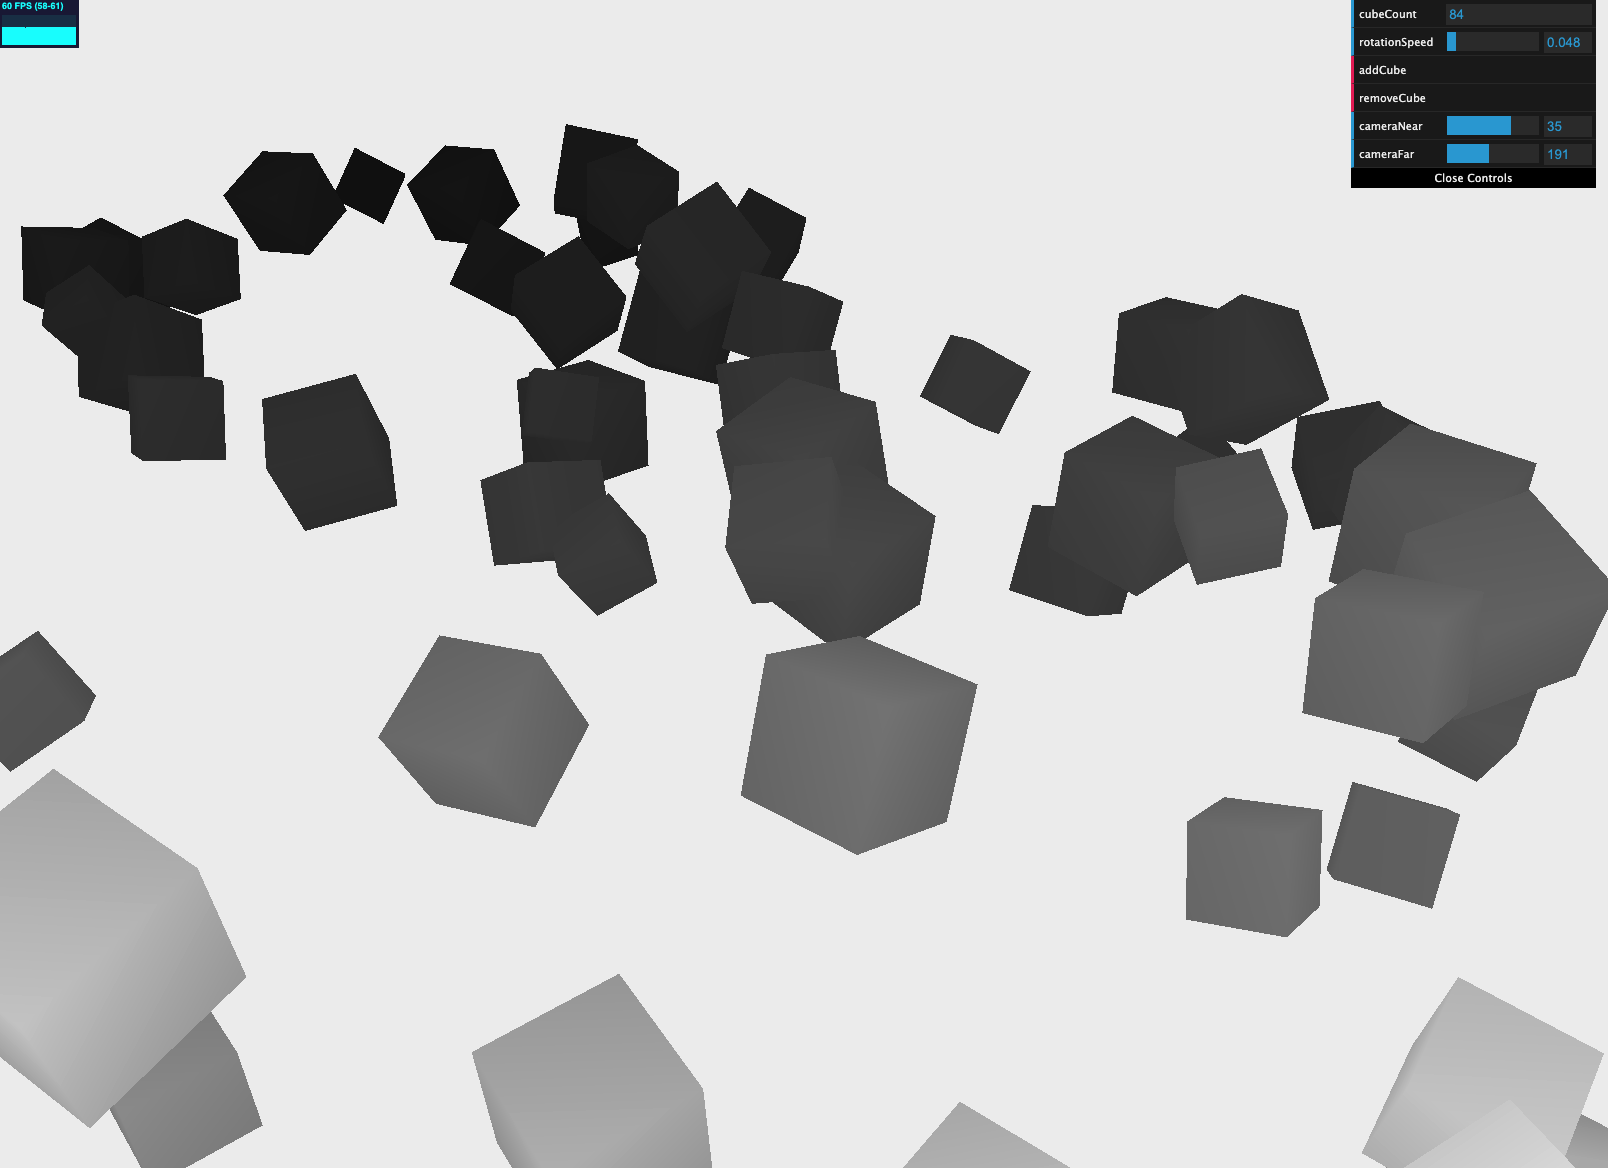
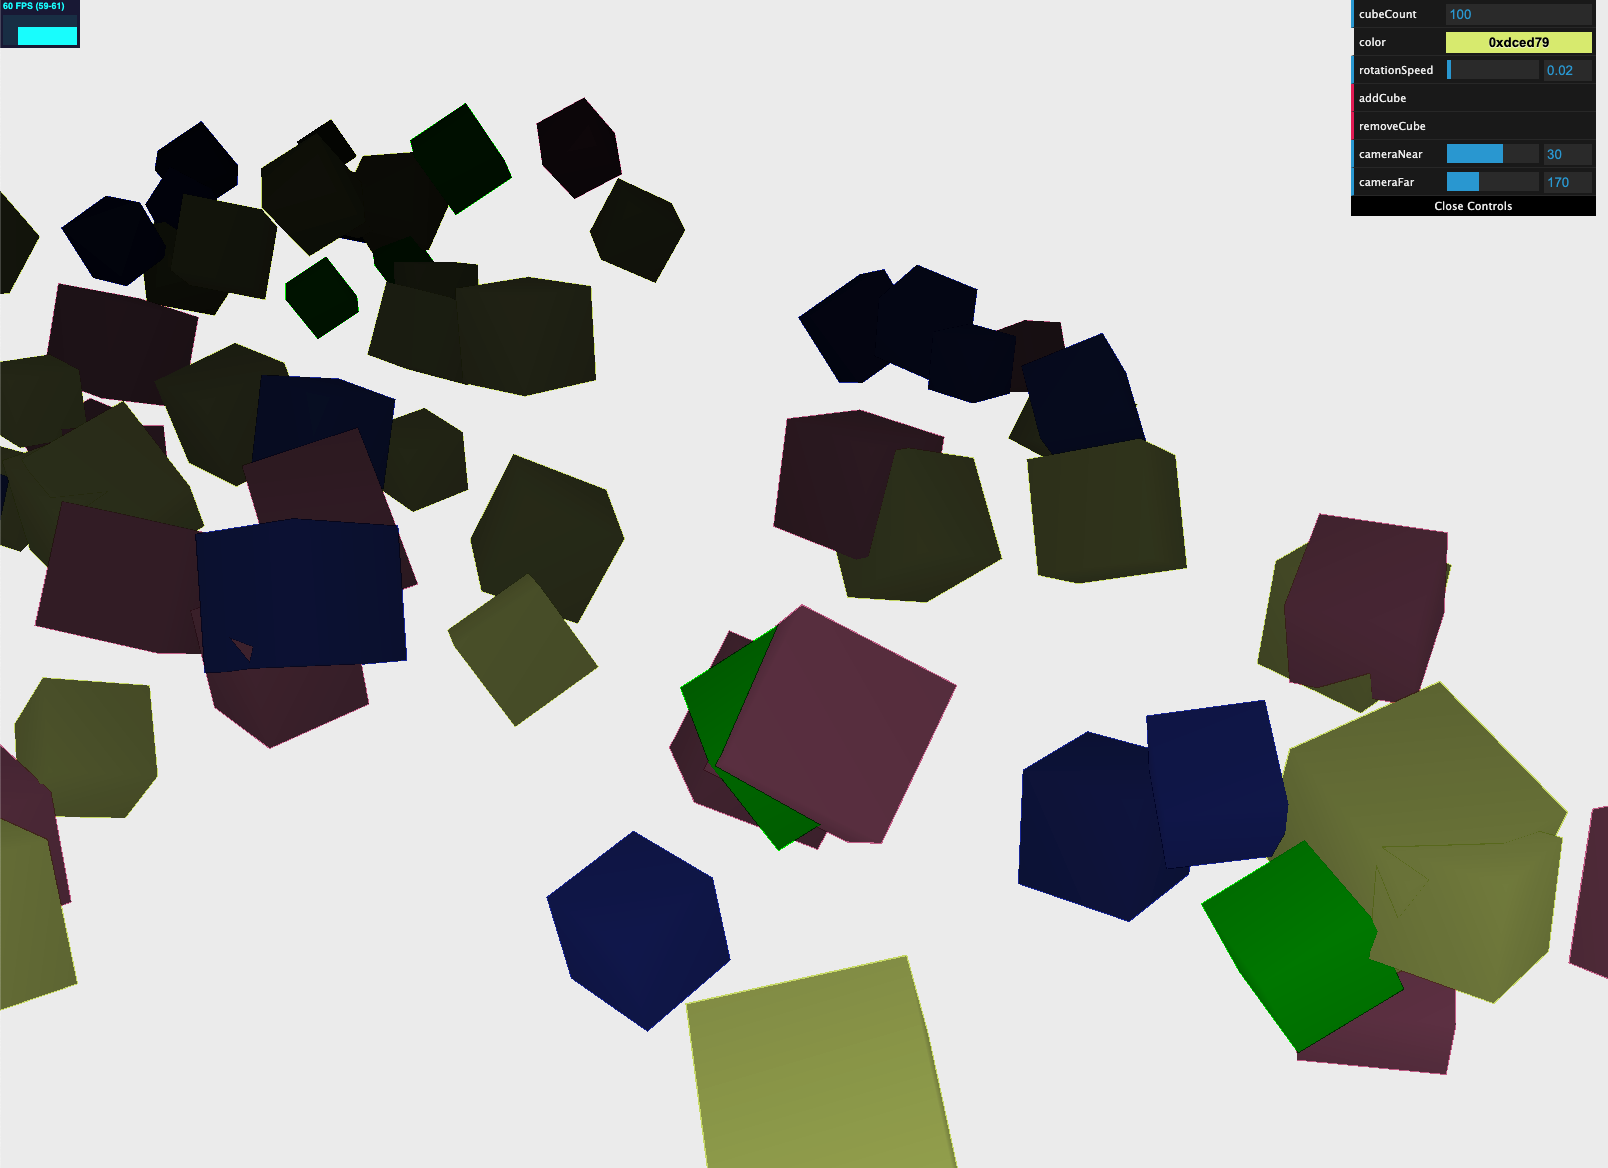
4-2-4 complete

diff --git a/Learning Three.js, 2nd Edition/chapter-04/4-2-3.combined-material/src/index.js b/Learning Three.js, 2nd Edition/chapter-04/4-2-3.combined-material/src/index.js
@@ -1,13 +1,13 @@
 import * as THREE from "three";
 import Stats from "stats.js";
 import * as dat from "dat.gui";
+import { SceneUtils } from "three/examples/jsm/utils/SceneUtils";
 
 // 統計情報の追加
 const stats = initStats();
 
 // [Scene]シーンの作成
 const scene = new THREE.Scene();
-scene.overrideMaterial = new THREE.MeshDepthMaterial();
 
 // [Camera]カメラの作成
 let camera = new THREE.PerspectiveCamera(45, window.innerWidth / window.innerHeight, 30, 170);
@@ -22,6 +22,7 @@ const renderer = new THREE.WebGLRenderer();
 renderer.setClearColor(new THREE.Color(0xeeeeee));
 renderer.setSize(window.innerWidth, window.innerHeight);
 renderer.shadowMap.enabled = true;
+renderer.sortObjects = true;
 document.getElementById("WebGL-output").appendChild(renderer.domElement);
 
 // [Gui]GUI
@@ -31,11 +32,12 @@ const controls = new (function () {
   this.cameraFar = camera.far;
   this.rotationSpeed = 0.02;
   this.numberOfObjects = scene.children.length;
+  this.color = 0x00ff00;
 
   this.removeCube = function () {
     const allChildren = scene.children;
     const lastObject = allChildren[allChildren.length - 1];
-    if (lastObject instanceof THREE.Mesh) {
+    if (lastObject instanceof THREE.Group) {
       scene.remove(lastObject);
       this.numberOfObjects = scene.children.length;
       this.cubeCount = scene.children.length - 1;
@@ -44,9 +46,19 @@ const controls = new (function () {
   this.addCube = function () {
     const cubeSize = Math.ceil(3 + Math.random() * 3);
     const cubeGeometry = new THREE.BoxGeometry(cubeSize, cubeSize, cubeSize);
-    const cubeMaterial = new THREE.MeshLambertMaterial({ color: Math.random() * 0xffffff });
-    // const cubeMaterial = new THREE.MeshDepthMaterial();
-    const cube = new THREE.Mesh(cubeGeometry, cubeMaterial);
+    const cubeMaterial = new THREE.MeshDepthMaterial();
+    // const colorMaterial = new THREE.MeshLambertMaterial({
+    //   color: controls.color,
+    //   transparent: true,
+    //   blending: THREE.MultiplyBlending,
+    // });
+    const colorMaterial = new THREE.MeshBasicMaterial({
+      color: new THREE.Color(controls.color),
+      transparent: true,
+      blending: THREE.MultiplyBlending,
+    });
+    const cube = SceneUtils.createMultiMaterialObject(cubeGeometry, [colorMaterial, cubeMaterial]);
+    cube.children[1].scale.set(0.99, 0.99, 0.99);
     cube.castShadow = true;
     cube.position.x = -60 + Math.round(Math.random() * 100);
     cube.position.y = Math.round(Math.random() * 10);
@@ -56,10 +68,14 @@ const controls = new (function () {
     this.numberOfObjects = scene.children.length;
     this.cubeCount = scene.children.length - 1;
   };
+  this.outputObjects = function () {
+    console.log(scene.children);
+  };
 })();
 
 const gui = new dat.GUI();
 gui.add(controls, "cubeCount").listen();
+gui.addColor(controls, "color");
 gui.add(controls, "rotationSpeed", 0, 0.5);
 gui.add(controls, "addCube");
 gui.add(controls, "removeCube");
@@ -71,6 +87,7 @@ gui.add(controls, "cameraFar", 100, 300).onChange(function (e) {
   camera.far = e;
   camera.updateProjectionMatrix();
 });
+gui.add(controls, "outputObjects");
 
 // キューブ初期配置
 let i = 0;
